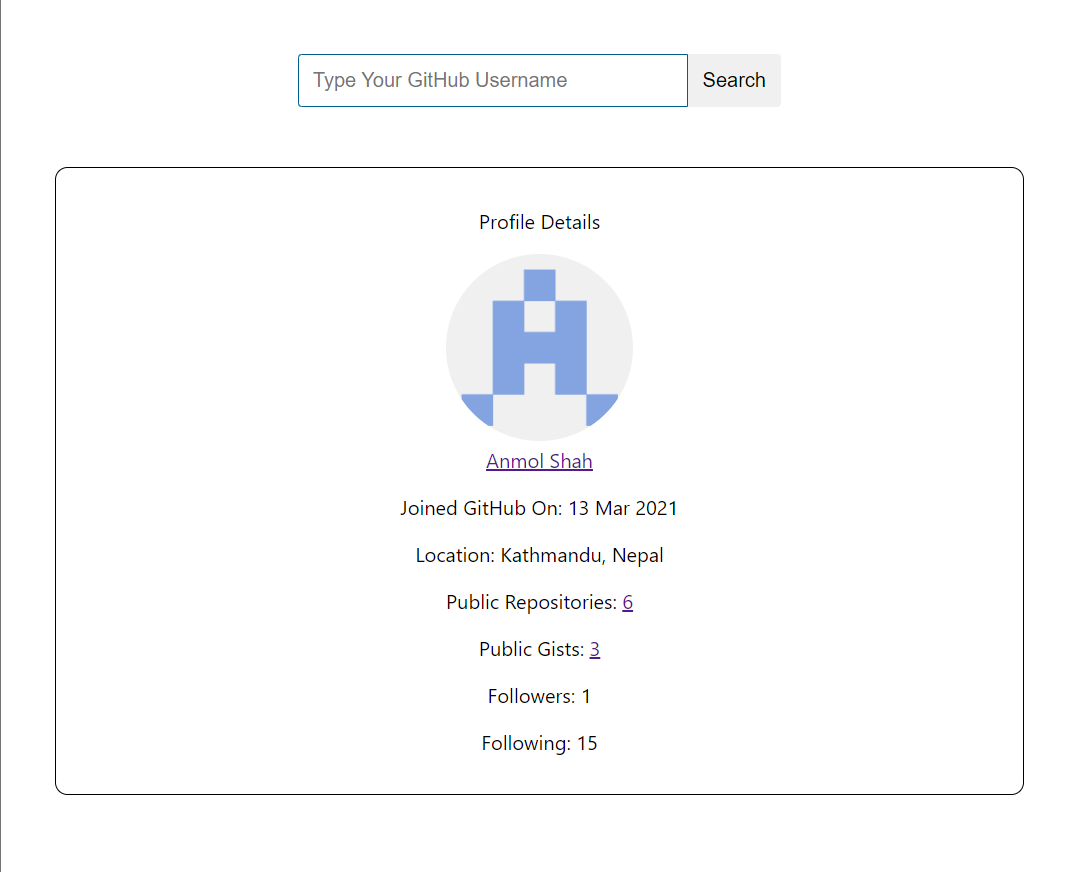
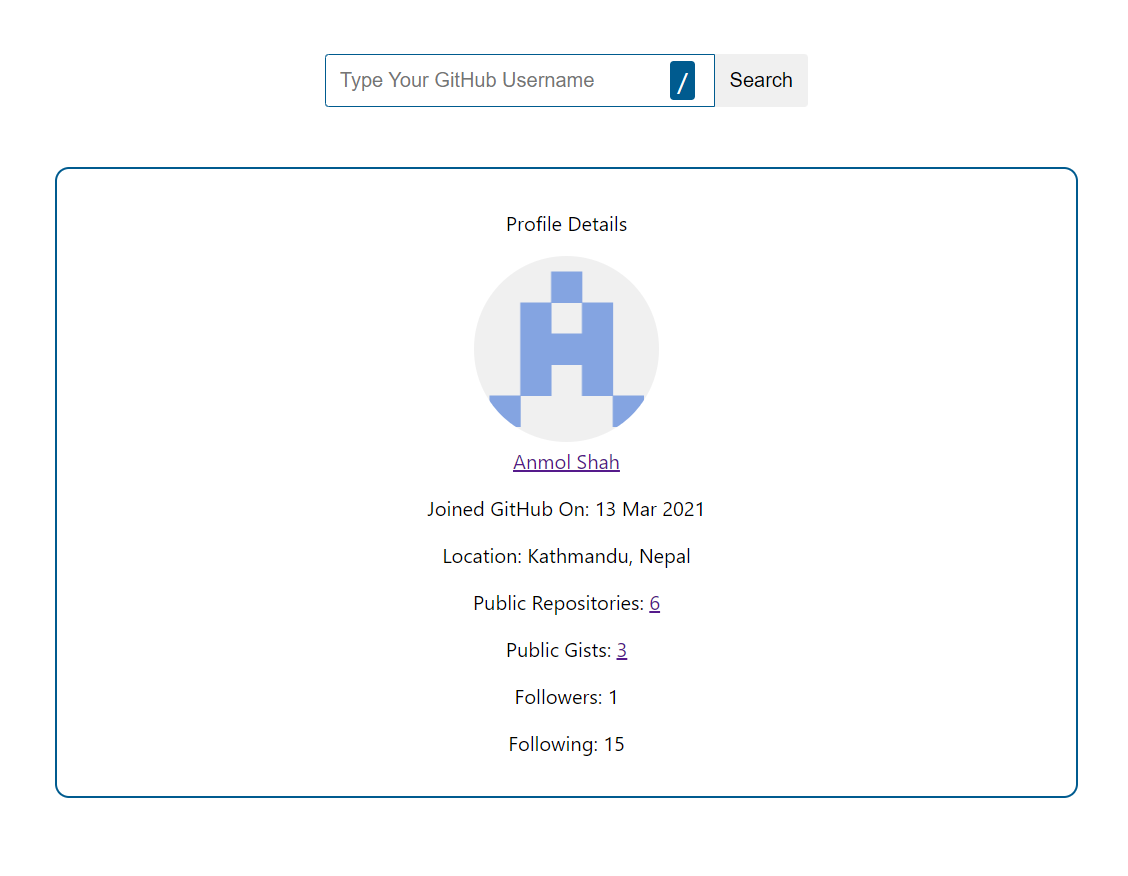
features/project-13-github-profile-finder - Resolve open threads after PR review - Add Slash hotkey in the search input bar for better visibility

diff --git a/github-profile-finder/src/components/index.jsx b/github-profile-finder/src/components/index.jsx
@@ -1,20 +1,20 @@
 import { useEffect, useState, useRef } from 'react';
 import { AiOutlineLoading } from 'react-icons/ai';
 
-import User from 'components/User';
-
 import fetchGitHubUserProfile from 'lib/fetchGitHubUserProfile';
+
+import UserProfileDetail from 'components/UserProfileDetail';
 
 import './styles.css';
 
-const RenderProfileDetails = ({ userProfileData, errorMessage }) => {
-  if (!userProfileData) return null;
+const RenderProfileDetails = ({ profileData, errorMessage }) => {
+  if (!profileData) return null;
 
   if (errorMessage) {
     return <p className="error-message">Error: {errorMessage}</p>;
   }
 
-  return <User userProfileData={userProfileData} />;
+  return <UserProfileDetail profileData={profileData} />;
 };
 
 const GithubProfileFinder = () => {
@@ -22,9 +22,10 @@ const GithubProfileFinder = () => {
   const slashKeyCounterRef = useRef(0);
 
   const [username, setUsername] = useState('anmolshah80');
-  const [userProfileData, setUserProfileData] = useState(null);
+  const [profileData, setProfileData] = useState(null);
   const [loading, setLoading] = useState(false);
   const [errorMessage, setErrorMessage] = useState(null);
+  const [slashHotkeyClassName, setSlashHotkeyClassName] = useState('slash-key');
 
   const handleSubmit = (event) => {
     event.preventDefault();
@@ -32,13 +33,14 @@ const GithubProfileFinder = () => {
     if (!username) return;
 
     setErrorMessage(null);
+    setSlashHotkeyClassName('slash-key');
 
     slashKeyCounterRef.current = 0;
 
     fetchGitHubUserProfile(
       setUsername,
       setLoading,
-      setUserProfileData,
+      setProfileData,
       setErrorMessage,
       username,
     );
@@ -48,7 +50,7 @@ const GithubProfileFinder = () => {
     fetchGitHubUserProfile(
       setUsername,
       setLoading,
-      setUserProfileData,
+      setProfileData,
       setErrorMessage,
       username,
     );
@@ -95,24 +97,31 @@ const GithubProfileFinder = () => {
     <div className="github-profile-container">
       <div className="input-wrapper">
         <form onSubmit={handleSubmit}>
-          <input
-            id="search-input"
-            name="search-by-username"
-            type="text"
-            placeholder="Type Your GitHub Username"
-            value={username}
-            onChange={(event) => setUsername(event.target.value)}
-            className="search-input"
-            ref={searchInputRef}
-            onBlur={() => {
-              slashKeyCounterRef.current = 0;
-            }}
-          />
+          <div className="search-input-container">
+            <input
+              id="search-input"
+              name="search-by-username"
+              type="text"
+              placeholder="Type Your GitHub Username"
+              value={username}
+              onChange={(event) => setUsername(event.target.value)}
+              className="search-input"
+              ref={searchInputRef}
+              onBlur={() => {
+                slashKeyCounterRef.current = 0;
+                setSlashHotkeyClassName('slash-key');
+              }}
+              onFocus={() => {
+                setSlashHotkeyClassName('slash-key-hide');
+              }}
+            />
+            <span className={slashHotkeyClassName}>/</span>
+          </div>
           <input className="submit-input" type="submit" value="Search" />
         </form>
       </div>
       <RenderProfileDetails
-        userProfileData={userProfileData}
+        profileData={profileData}
         errorMessage={errorMessage}
       />
     </div>

diff --git a/github-profile-finder/src/components/UserProfileDetail.jsx b/github-profile-finder/src/components/UserProfileDetail.jsx
@@ -1,0 +1,90 @@
+const PublicRespositoriesDetail = ({ profileLink, publicRepositories }) => {
+  if (publicRepositories === 0) {
+    return <p>Public Repositories: {publicRepositories}</p>;
+  }
+
+  return (
+    <p>
+      Public Repositories:{' '}
+      <a
+        href={`${profileLink}?tab=repositories`}
+        target="_blank"
+        rel="noreferrer noopener"
+      >
+        {publicRepositories}
+      </a>
+    </p>
+  );
+};
+
+const PublicGistsDetail = ({ userName, publicGists }) => {
+  if (publicGists === 0) {
+    return <p>Public Gists: {publicGists}</p>;
+  }
+
+  return (
+    <p>
+      Public Gists:{' '}
+      <a
+        href={`https://gist.github.com/${userName}`}
+        target="_blank"
+        rel="noreferrer noopener"
+      >
+        {publicGists}
+      </a>
+    </p>
+  );
+};
+
+const UserProfileDetail = ({ profileData }) => {
+  const {
+    followers,
+    following,
+    name,
+    location,
+    avatar_url: avatarUrl,
+    public_repos: publicRepositories,
+    public_gists: publicGists,
+    created_at: createdAt,
+    html_url: profileLink,
+    login: userName,
+  } = profileData;
+
+  const joinedIn = new Date(createdAt);
+
+  return (
+    <div className="user">
+      <p>Profile Details</p>
+      <div>
+        <img src={avatarUrl} alt="User Avatar" className="user-avatar" />
+      </div>
+      <div className="name-container">
+        <a href={profileLink} target="_blank" rel="noreferrer noopener">
+          {name || userName}
+        </a>
+        <p>
+          Joined GitHub On:{' '}
+          {`${joinedIn.getDate()} ${joinedIn.toLocaleString('en-us', {
+            month: 'short',
+          })} ${joinedIn.getFullYear()}`}
+        </p>
+        {location && <p>Location: {location}</p>}
+      </div>
+      <div>
+        <div>
+          <PublicRespositoriesDetail
+            profileLink={profileLink}
+            publicRepositories={publicRepositories}
+          />
+          <PublicGistsDetail userName={userName} publicGists={publicGists} />
+        </div>
+        <div>
+          <p>Followers: {followers}</p>
+          <p>Following: {following}</p>
+        </div>
+      </div>
+    </div>
+  );
+};
+
+export default UserProfileDetail;

diff --git a/github-profile-finder/src/components/styles.css b/github-profile-finder/src/components/styles.css
@@ -42,9 +42,9 @@
 .github-profile-container {
   margin: 0 auto;
   width: 90%;
-  max-width: 1000px;
-  padding: 20px;
-  border-radius: 8px;
+  max-width: 62.5rem;
+  padding: 1.25rem;
+  border-radius: 0.5rem;
 }
 
 .input-wrapper {
@@ -55,38 +55,67 @@
 }
 
 .user {
-  padding: 15px;
-  border-radius: 10px;
-  border: 1px solid;
+  padding: 1rem;
+  border-radius: 0.7rem;
+  border: 0.125rem solid #005b8f;
 }
 
 .user-avatar {
-  height: 150px;
+  height: 9.275rem;
   aspect-ratio: 1/1;
   border-radius: 50%;
 }
 
 .search-input {
-  border: 1px solid #005b8f;
+  border: 0.063rem solid #005b8f;
   outline: none;
   width: 18rem;
-  border-top-left-radius: 3px;
-  border-bottom-left-radius: 3px;
-  padding: 11px;
-  font-size: 16px;
+  border-top-left-radius: 0.188rem;
+  border-bottom-left-radius: 0.188rem;
+  padding: 0.688rem;
+  font-size: 1rem;
 }
 
 .submit-input {
-  padding: 12px;
+  padding: 0.75rem;
   font-size: 1rem;
   cursor: pointer;
   border: none;
-  border-top-right-radius: 3px;
-  border-bottom-right-radius: 3px;
+  border-top-right-radius: 0.188rem;
+  border-bottom-right-radius: 0.188rem;
   background-color: buttonface;
 }
 
 .submit-input:hover {
   color: #ffffff;
   background-color: #005b8f;
+}
+
+.search-input-container {
+  display: flex;
+  align-items: center;
+  justify-content: flex-end;
+  position: relative;
+}
+
+.slash-key {
+  position: absolute;
+  margin-right: 1rem;
+  padding: 0.1rem 0.35rem;
+  border-radius: 0.188rem;
+  text-align: center;
+  align-self: center;
+  font-size: 1.3rem;
+  background-color: #005b8f;
+  color: #ffffff;
+}
+
+form {
+  display: flex;
+  align-items: center;
+  justify-content: center;
+}
+
+.slash-key-hide {
+  display: none;
 }
